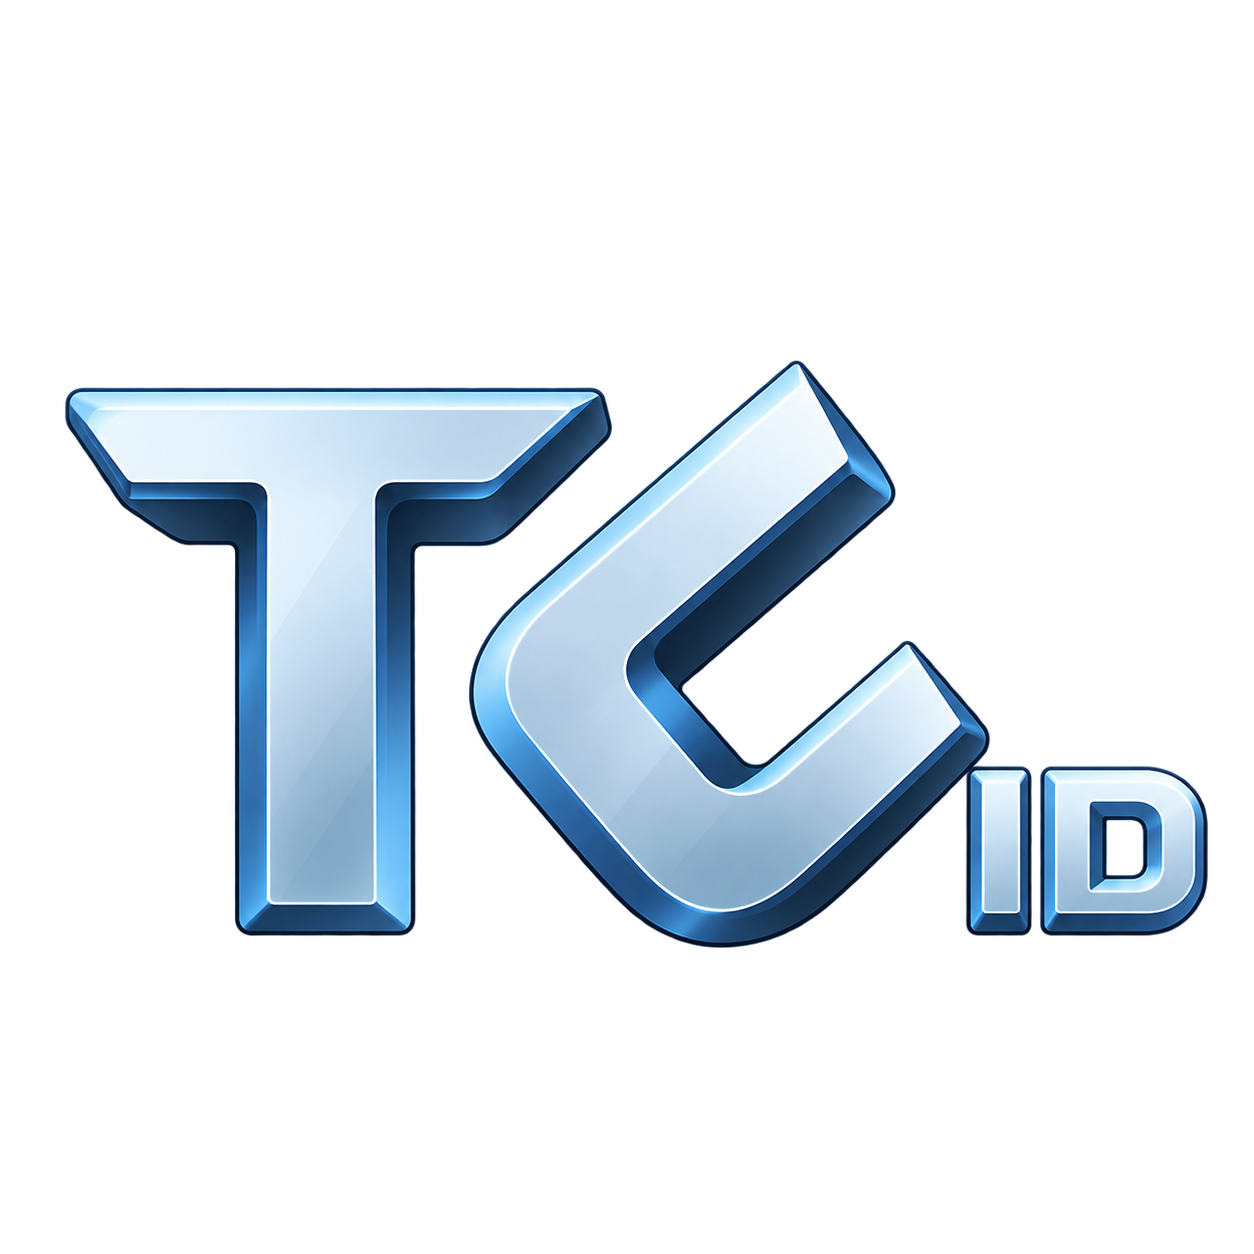
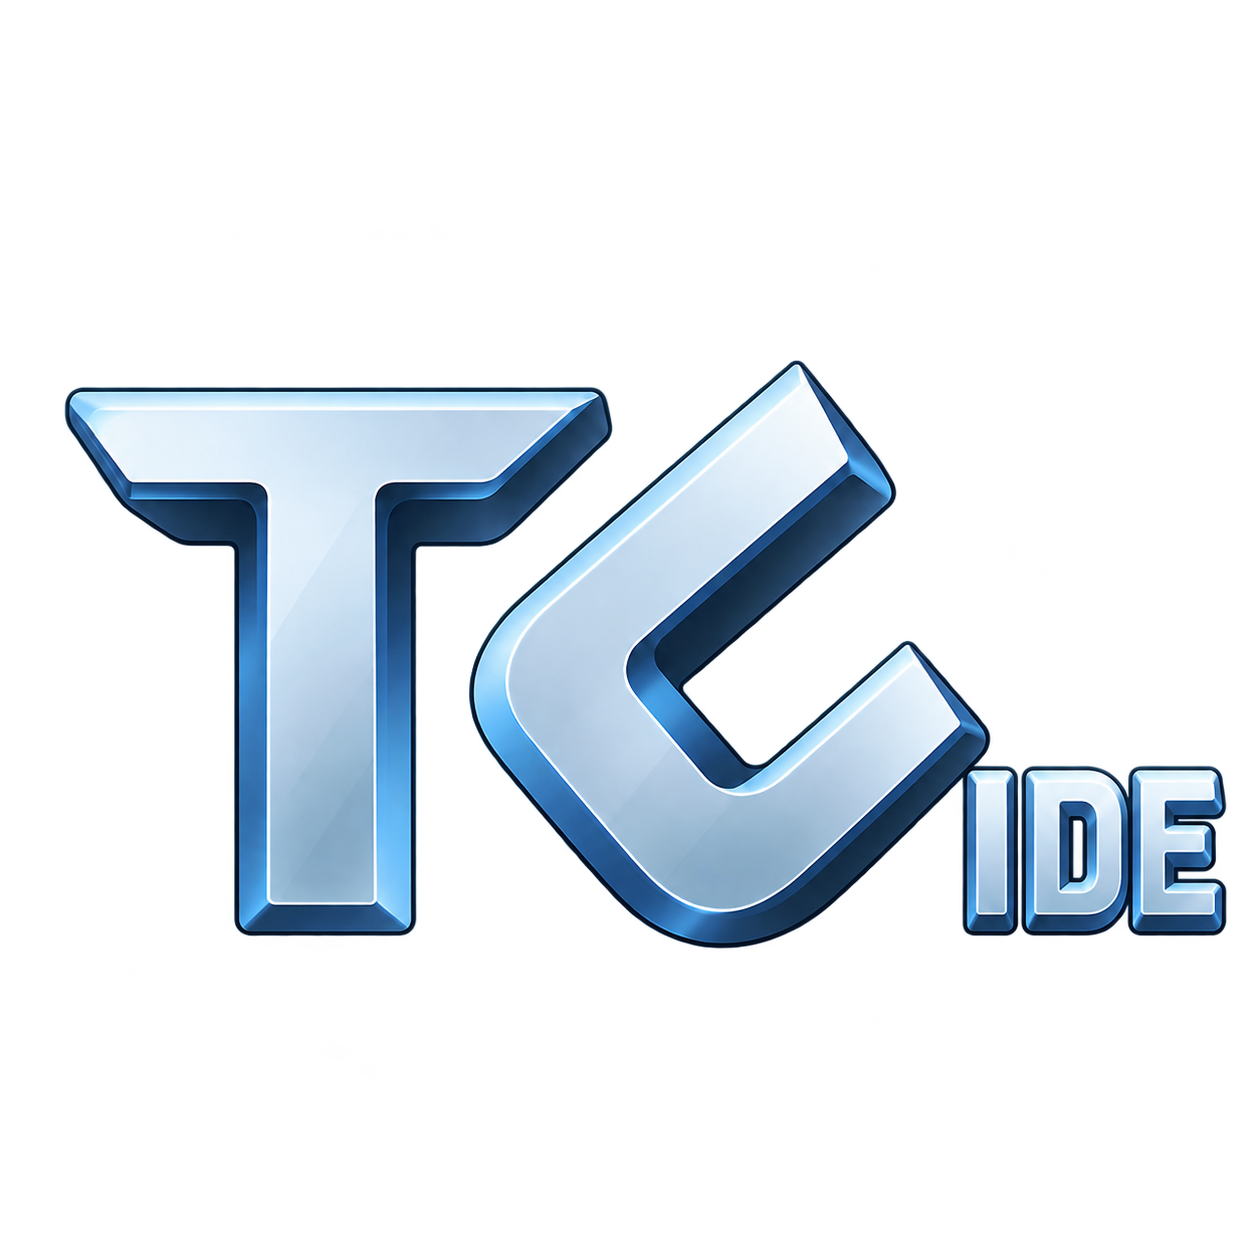
fix: make branding read TCIDE

diff --git a/src/main.rs b/src/main.rs
@@ -512,7 +512,7 @@ impl App {
         self.line(self.colors.line,1,(0,header-1),(self.width,header-1));
         self.circle(self.colors.project,self.colors.bright,s(27),s(23),s(13));
         self.text(self.colors.bright,s(15),s(29),"TC");
-        self.text(self.colors.accent,s(31),s(29),"id");
+        self.text(self.colors.accent,s(31),s(29),"ide");
         self.text(self.colors.text,s(48),s(29),"TC-IDE");
         self.outline(if self.new_menu_open{self.colors.accent}else{self.colors.line},s(112),s(10),s(88),s(27));
         self.text(self.colors.text,s(124),s(29),self.tr("New  v","新建 v"));

diff --git a/README.md b/README.md
@@ -1,6 +1,6 @@
 # TC-IDE
 
-![TC-IDE TC ID icon](assets/tc-ide-icon.png)
+![TC-IDE TCIDE icon](assets/tc-ide-icon.png)
 
 TC-IDE 是一个 Rust 原生、低色彩噪声、强调空间关系与丝滑动效的 IDE 实验项目。它沿用 Zed 的核心产品方向：原生窗口、每帧统一绘制、后台语义分析，以及不依赖 HTML/CSS 的界面。
 
